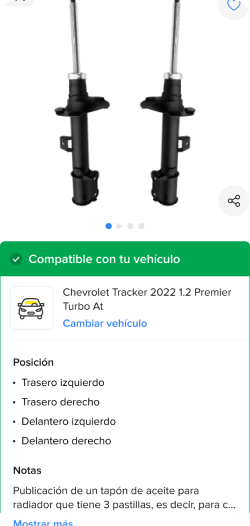
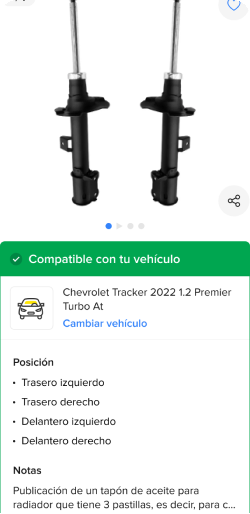
Widget de compatibilidade: ajustes de texto no Contexto e imagem sem corte no Mostrar más
Claude-Session: https://claude.ai/code/session_01AMTPoSqttcR7kCqUB4DovR

diff --git a/pt/index.html b/pt/index.html
@@ -116,7 +116,7 @@
 <div class="cs-cap"><p class="cs-bt">Pausar loja no backoffice <span>Mercado Livre</span></p><p class="cs-bd">Uma forma controlada de parar a entrada de pedidos quando a loja não dá conta.</p><p class="cs-tags"><span>Product Design</span><span>Lean UX</span></p></div>
 </a>
 <a class="wk cs-card" href="#widget-compatibilidade" data-case="widget-compatibilidade" aria-label="Widget de compatibilidade de peças">
-<div class="cs-vis"><div class="cs-inner"><div class="dv3 dv3-phone"><img src="/widget-final.png" alt="Página do produto no celular com o cabeçalho verde Compatível com seu veículo, o veículo, a lista de posições e as notas" width="250" height="526" loading="lazy" decoding="async"></div></div>
+<div class="cs-vis"><div class="cs-inner"><div class="dv3 dv3-phone"><img src="/widget-final.png" alt="Página do produto no celular com o cabeçalho verde Compatível com seu veículo, o veículo, a lista de posições e as notas" width="250" height="514" loading="lazy" decoding="async"></div></div>
 <div class="cs-bar" aria-hidden="true"><p class="cs-bt">Widget de compatibilidade de peças <span>Mercado Livre</span></p><p class="cs-bd">Um widget que ajuda a comprar a peça certa, prototipado em código com IA e liberado em alfa e beta.</p><p class="cs-tags"><span>Product Design</span><span>Design Engineering</span></p></div>
 <span class="cs-badge" aria-hidden="true"><svg viewBox="0 0 13 13" width="12" height="12" fill="none" stroke="currentColor" stroke-width="1.6" stroke-linecap="round" stroke-linejoin="round" aria-hidden="true"><path d="M3.5 9.5l6-6M4.5 3.5h5v5"/></svg></span></div>
 <div class="cs-cap"><p class="cs-bt">Widget de compatibilidade de peças <span>Mercado Livre</span></p><p class="cs-bd">Um widget que ajuda a comprar a peça certa, prototipado em código com IA e liberado em alfa e beta.</p><p class="cs-tags"><span>Product Design</span><span>Design Engineering</span></p></div>
@@ -283,14 +283,14 @@
 <div class="cx-bleed">
 <div class="cx-strip imgs fx" style="--n:3;--cols:0.828fr 0.475fr 0.628fr">
 <img style="aspect-ratio:420/507" src="/widget-antes.png" alt="Widget antes, em espanhol: o estado Não sabemos se é compatível e o estado Compatível, com notas e posição em texto cinza abaixo" loading="lazy">
-<img style="aspect-ratio:250/526" src="/widget-final.png" alt="Página do produto no celular, em espanhol, com o cabeçalho verde Compatível com seu veículo, o veículo, a lista de posições e as notas" loading="lazy">
+<img style="aspect-ratio:250/514" src="/widget-final.png" alt="Página do produto no celular, em espanhol, com o cabeçalho verde Compatível com seu veículo, o veículo, a lista de posições e as notas" loading="lazy">
 <img style="aspect-ratio:318/506" src="/widget-nao-sabemos.png" alt="Proposta, em português: o estado Compatível com seu veículo, com onde a peça encaixa, e o estado Não sabemos se é compatível, com o motivo e o link Ver produtos compatíveis" loading="lazy">
 </div>
 </div>
 <div class="cx-body fx">
 <div class="fx-blk">
 <h3 class="cx-label">Contexto</h3>
-<p class="fx-ctx">No funil de Autopeças, itens de ticket alto tinham muito abandono na hora da decisão de compra.</p><p class="fx-ctx">A pesquisa mostrou o motivo: medo de comprar uma peça incompatível e de sair do app para pesquisar no Google.</p><p class="fx-ctx">Nas buscas, 69% não mostravam o widget, 24% das pessoas não lembravam de tê-lo visto e 41% encontraram informação inconsistente. Os reclamos por incompatibilidade eram altos, 9% deles por posição.</p>
+<p class="fx-ctx">No funil de Autopeças, itens de ticket alto tinham muito abandono na hora da decisão de compra.</p><p class="fx-ctx">A pesquisa mostrou o motivo: medo de comprar uma peça incompatível, o que fazia as pessoas saírem do app para pesquisar no Google.</p><p class="fx-ctx">Nas buscas, 69% não mostravam o widget, 24% das pessoas não lembravam de tê-lo visto e 41% encontraram informação inconsistente. As reclamações por incompatibilidade eram altas, 9% delas por posição.</p>
 </div>
 <div class="fx-blk">
 <h3 class="cx-label">O que mudou</h3>
